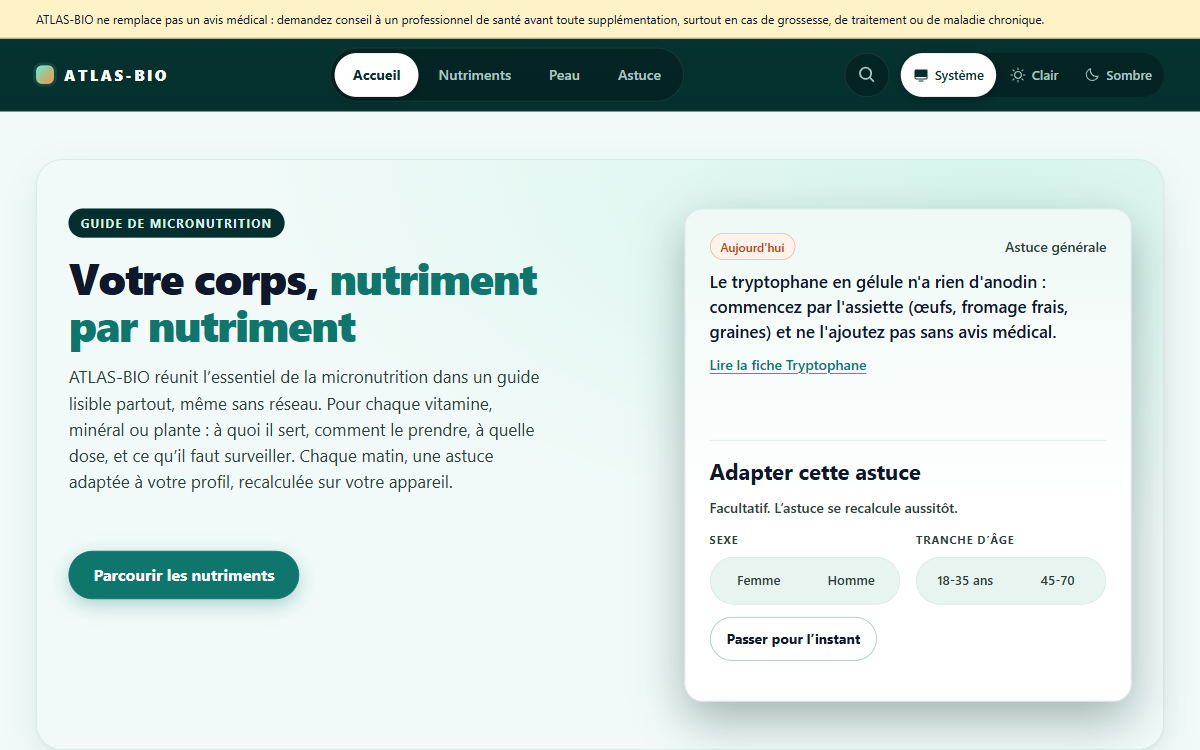
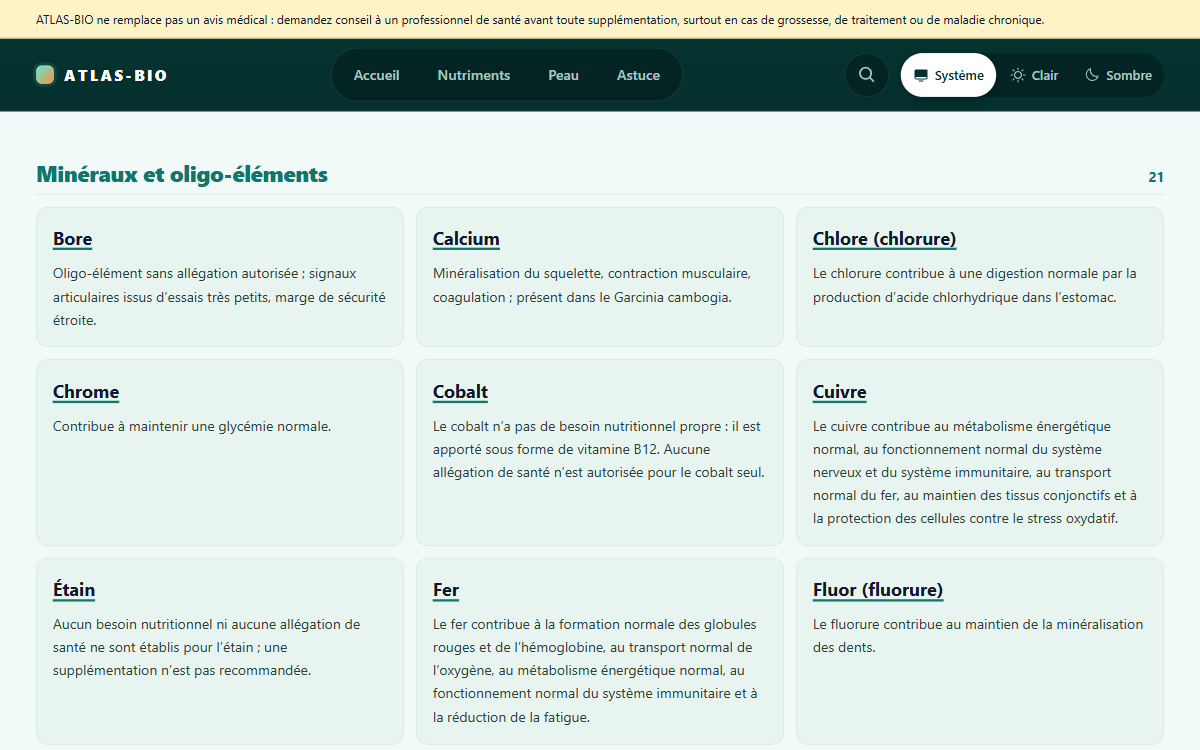
fix(projects): swap the pale Atlas capture, clamp descriptions by line
The Atlas thumbnail was the hero: a headline floating in mint-white space,
which read as an empty tile at 256px. The nutrient fiche behind it shows the
cards, the type scale and the actual content, so the row now looks like work.

Descriptions were cut by character count, which produced a mid-word ellipsis
that ignored the column width. A line clamp follows the layout instead: two
lines on a phone, four from md up. The toggle no longer carries '...' because
the clamp already shows one.

Also restores the row alignment: px-8 had crept into the article and pushed
every row 32px off the section heading.

diff --git a/src/app/pages/components/projects/projects-list.html b/src/app/pages/components/projects/projects-list.html
@@ -1,6 +1,6 @@
 <div class="mt-10 border-t border-rule">
   @for (project of projects(); track project.id; let i = $index) {
-  <article trackBehavior="project_viewed_{{ project.slug }}" data-stagger [style.--i]="i" class="project-row group border-b border-rule py-8 px-8">
+  <article trackBehavior="project_viewed_{{ project.slug }}" data-stagger [style.--i]="i" class="project-row group border-b border-rule py-8">
     <div class="grid grid-cols-1 gap-x-10 gap-y-5 md:grid-cols-[auto_1fr]">
       @if (project.coverImageUrl) {
       <!-- The screenshot is the largest element in the row, so it carries the
@@ -43,8 +43,14 @@
         </p>
         } @if (project.description) {
         <div class="mt-3 max-w-[65ch] text-ink-2">
-          <p class="whitespace-pre-wrap">{{ visibleDescription(project) }}</p>
-          @if (descriptionNeedsToggle(project.description)) {
+          <!-- Line-based clamp instead of a character cut: it follows the column
+               width, so the row is shorter on a phone without inventing an
+               ellipsis mid-word. -->
+          @if (descriptionExpanded(project.id)) {
+          <p class="whitespace-pre-wrap">{{ project.description }}</p>
+          } @else {
+          <p class="line-clamp-2 whitespace-pre-wrap md:line-clamp-4">{{ project.description }}</p>
+          } @if (descriptionNeedsToggle(project.description)) {
           <button type="button" class="tap-area type-meta mt-2 cursor-pointer text-accent hover:underline" (click)="toggleDescription(project.id, $event)">
             {{ descriptionExpanded(project.id) ? commonCopy().showLess : commonCopy().showMore }}
           </button>

diff --git a/src/app/pages/components/projects/projects-list.ts b/src/app/pages/components/projects/projects-list.ts
@@ -62,14 +62,6 @@ export class ProjectsList {
     return Math.max(0, (project.tags?.length ?? 0) - ProjectsList.collapsedTagCount);
   }
 
-  protected visibleDescription(project: ProjectListItem): string {
-    const text = project.description ?? '';
-    if (!this.descriptionNeedsToggle(text) || this.descriptionExpandedIds().has(project.id)) {
-      return text;
-    }
-    return truncateDescriptionPreview(text, ProjectsList.descriptionCollapsedMaxChars);
-  }
-
   protected descriptionExpanded(projectId: string): boolean {
     return this.descriptionExpandedIds().has(projectId);
   }
@@ -84,12 +76,4 @@ export class ProjectsList {
       return next;
     });
   }
-}
-
-function truncateDescriptionPreview(text: string, max: number): string {
-  if (text.length <= max) return text;
-  const slice = text.slice(0, max);
-  const lastSpace = slice.lastIndexOf(' ');
-  const end = lastSpace > max * 0.55 ? lastSpace : max;
-  return `${slice.slice(0, end).trimEnd()}…`;
 }

diff --git a/src/app/shared/i18n/de.ts b/src/app/shared/i18n/de.ts
@@ -3,8 +3,8 @@ import type { SiteCopy } from './site-copy.types';
 export const DE_COPY: SiteCopy = {
   footer: { copyright: '© {year} Robert Kameni' },
   common: {
-    showMore: 'mehr anzeigen...',
-    showLess: 'weniger anzeigen...',
+    showMore: 'mehr anzeigen',
+    showLess: 'weniger anzeigen',
   },
   home: {
     founder: 'Founder',

diff --git a/src/app/shared/i18n/en.ts b/src/app/shared/i18n/en.ts
@@ -3,8 +3,8 @@ import type { SiteCopy } from './site-copy.types';
 export const EN_COPY: SiteCopy = {
   footer: { copyright: '© {year} Robert Kameni' },
   common: {
-    showMore: 'show more...',
-    showLess: 'show less...',
+    showMore: 'show more',
+    showLess: 'show less',
   },
   home: {
     founder: 'Founder',
